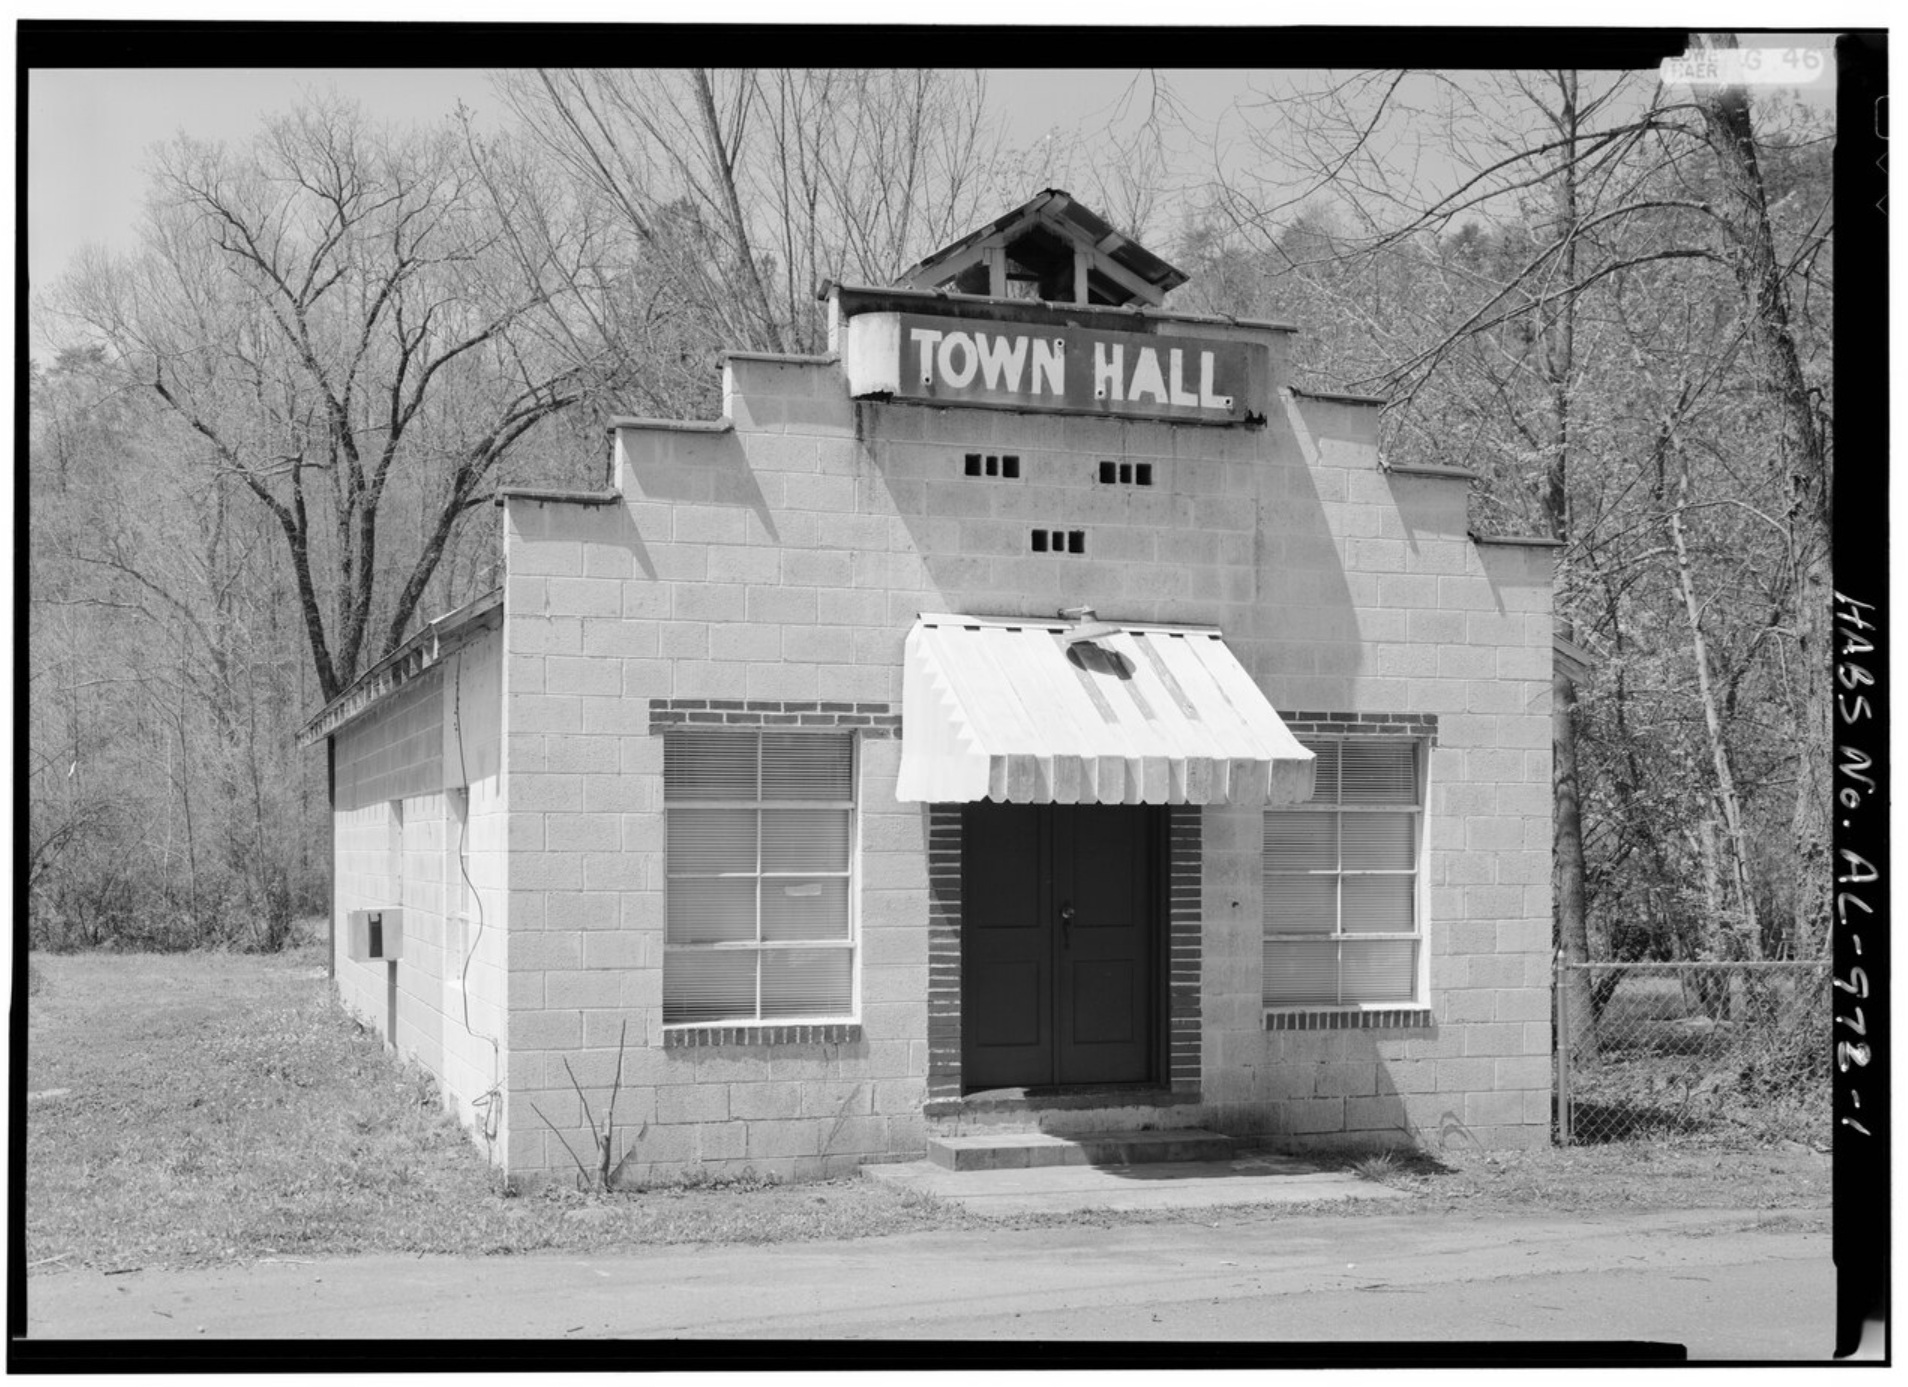
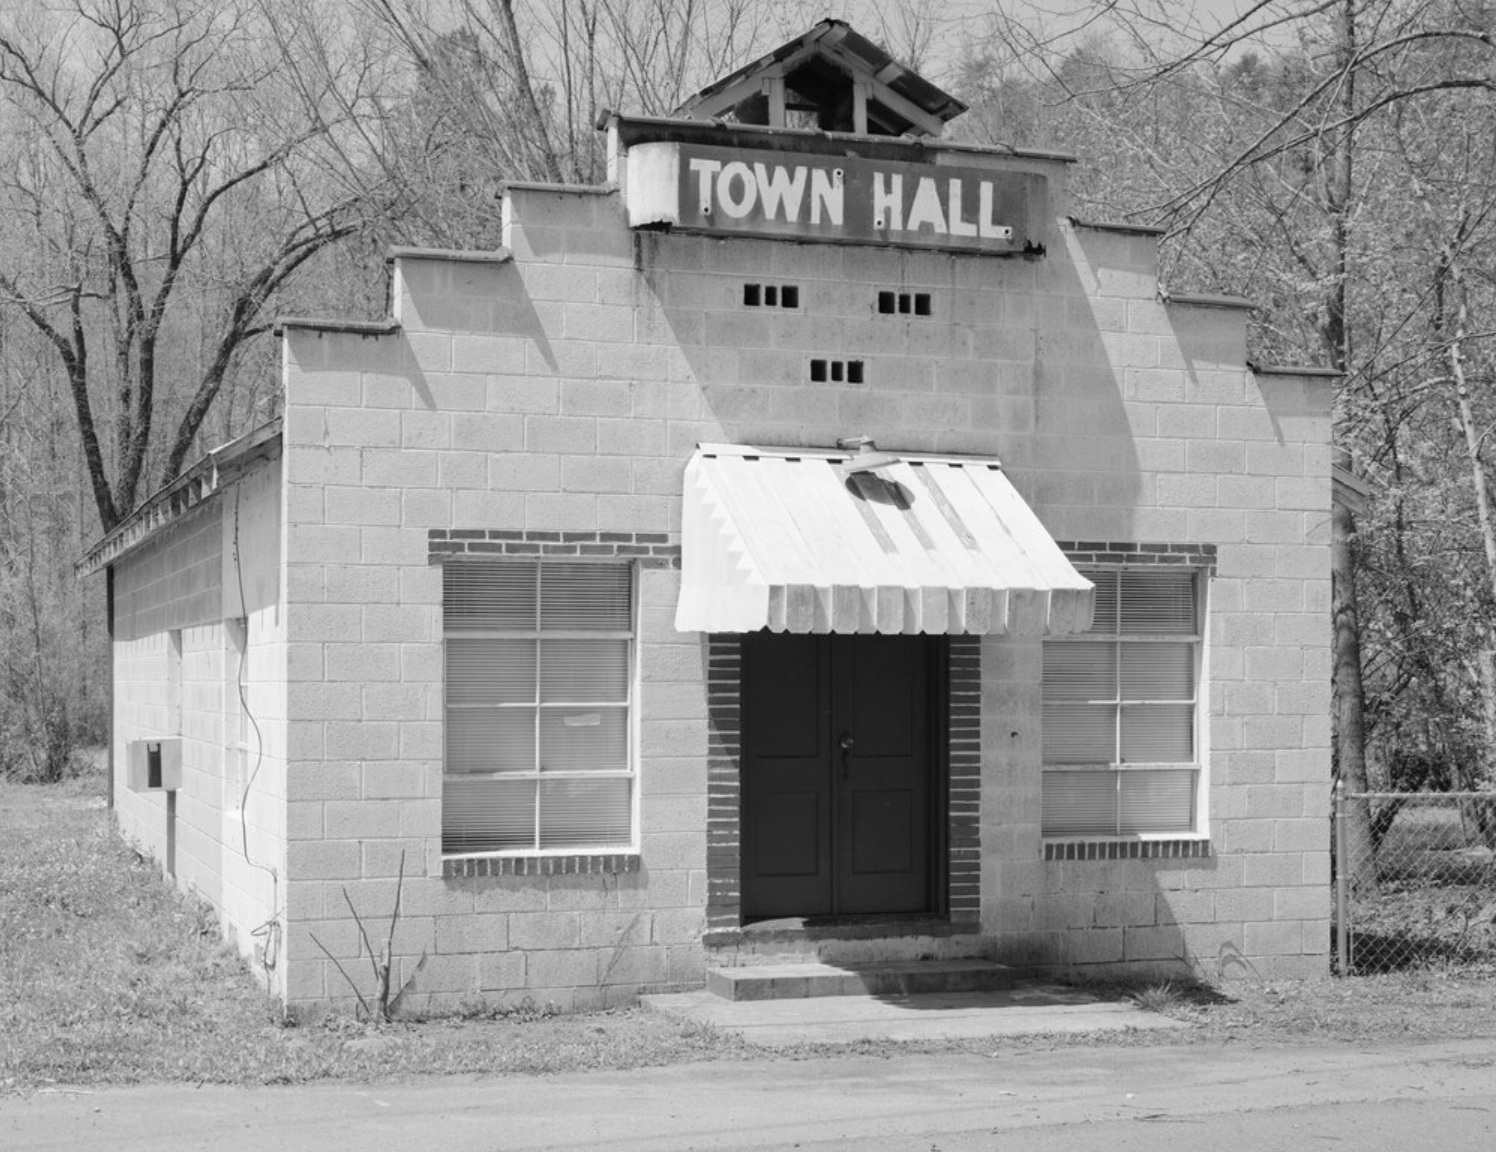
updated gallery on home page

diff --git a/index.html b/index.html
@@ -64,7 +64,7 @@ body::after{content:"";position:fixed;inset:0;z-index:0;pointer-events:none;back
 .icon-btn{appearance:none;border:1px solid var(--border2);background:var(--paper);color:var(--ink2);padding:.52rem .82rem;border-radius:999px;font-size:.75rem;font-weight:700;cursor:pointer;transition:all var(--ease)}
 .icon-btn:hover{border-color:var(--amber);color:var(--amber)}
 .photo-stage{position:relative;overflow:hidden;border-radius:14px;border:1px solid var(--border);background:#ddd;aspect-ratio:1/1;min-height:360px}
-.photo-stage img{width:100%;height:100%;object-fit:cover;display:block;filter:grayscale(100%) contrast(1.02)}
+.photo-stage img{width:100%;height:100%;object-fit:cover;display:block}
 .photo-stage::after{content:"";position:absolute;inset:0;background:linear-gradient(180deg,rgba(25,16,10,.08),rgba(25,16,10,.24));pointer-events:none}
 .marker{position:absolute;z-index:2;display:flex;align-items:center;gap:.45rem;transform:translate(-50%,-50%)}
 .marker-dot{width:12px;height:12px;border-radius:50%;background:var(--red);border:2px solid rgba(255,255,255,.9);box-shadow:0 0 0 4px rgba(200,16,46,.16)}
@@ -244,11 +244,11 @@ body::after{content:"";position:fixed;inset:0;z-index:0;pointer-events:none;back
 <script>
 
 const FALLBACK_GALLERY=[{src:'photos/cardiff-1951.jpg',title:'Aerial view, 1951',copy:'A long look at Cardiff from above, with the town and its neighboring communities still easy to read in the landscape.',credit:'Historical photograph',alt:'Historical aerial photograph of Cardiff and the surrounding area from 1951',markers:[{label:'Cardiff',left:'42%',top:'39%'},{label:'Brookside',left:'63%',top:'48%'}]},{src:'photos/historical-marker.jpg',title:'Historic marker',copy:'A grounded reminder that Cardiff has always been part of a bigger regional story, even while keeping its own identity.',credit:'Site collection',alt:'Historical marker connected to Cardiff local history',markers:[]},{src:'photos/town-hall.jpg',title:'Town hall',copy:'A present-day view that keeps the homepage tied to the real built fabric of Cardiff, not just the archive.',credit:'Site collection',alt:'Town hall building in Cardiff',markers:[]}];
-let gallery=[],photoIndex=0;
+let gallery=[],photoIndex=0,galleryVersion='2026-03-28T02:00:00-05:00';
 function renderMarkers(markers){const shell=document.getElementById('photoMarkers');if(!shell)return;shell.innerHTML=(markers||[]).map(marker=>`<div class="marker" style="left:${marker.left};top:${marker.top};"><span class="marker-dot"></span><span class="marker-label">${marker.label}</span></div>`).join('')}
-function normalizeGalleryItem(item){const src=(item.src||'').includes('/')?item.src:`photos/${item.src||''}`;return {...item,src}}
+function normalizeGalleryItem(item){const src=(item.src||'').includes('/')?item.src:`photos/${item.src||''}`;const hasQuery=src.includes('?');return {...item,src:hasQuery?src:`${src}?v=${encodeURIComponent(galleryVersion)}`}}
 function renderPhoto(){if(!gallery.length)return;const item=gallery[photoIndex];document.getElementById('heroPhoto').src=item.src;document.getElementById('heroPhoto').alt=item.alt||item.title||'Historic Cardiff image';document.getElementById('photoTitle').textContent=item.title||'';document.getElementById('photoCopy').textContent=item.copy||'';document.getElementById('photoCredit').textContent=item.credit||'';document.getElementById('photoMeta').textContent=`Photo ${photoIndex+1} of ${gallery.length}`;renderMarkers(item.markers||[])}
-async function loadGallery(){try{const response=await fetch('cardiff-home-gallery.json',{cache:'no-store'});if(!response.ok)throw new Error('gallery file missing');const data=await response.json();if(Array.isArray(data.items)&&data.items.length){gallery=data.items.map(normalizeGalleryItem);renderPhoto();return;}}catch(e){}gallery=FALLBACK_GALLERY;renderPhoto();}
+async function loadGallery(){try{const response=await fetch('cardiff-home-gallery.json',{cache:'no-store'});if(!response.ok)throw new Error('gallery file missing');const data=await response.json();if(data.updatedAt)galleryVersion=data.updatedAt;if(Array.isArray(data.items)&&data.items.length){gallery=data.items.map(normalizeGalleryItem);renderPhoto();return;}}catch(e){}gallery=FALLBACK_GALLERY.map(normalizeGalleryItem);renderPhoto();}
 document.getElementById('prevPhoto').addEventListener('click',()=>{if(!gallery.length)return;photoIndex=(photoIndex-1+gallery.length)%gallery.length;renderPhoto()});
 document.getElementById('nextPhoto').addEventListener('click',()=>{if(!gallery.length)return;photoIndex=(photoIndex+1)%gallery.length;renderPhoto()});
 loadGallery();